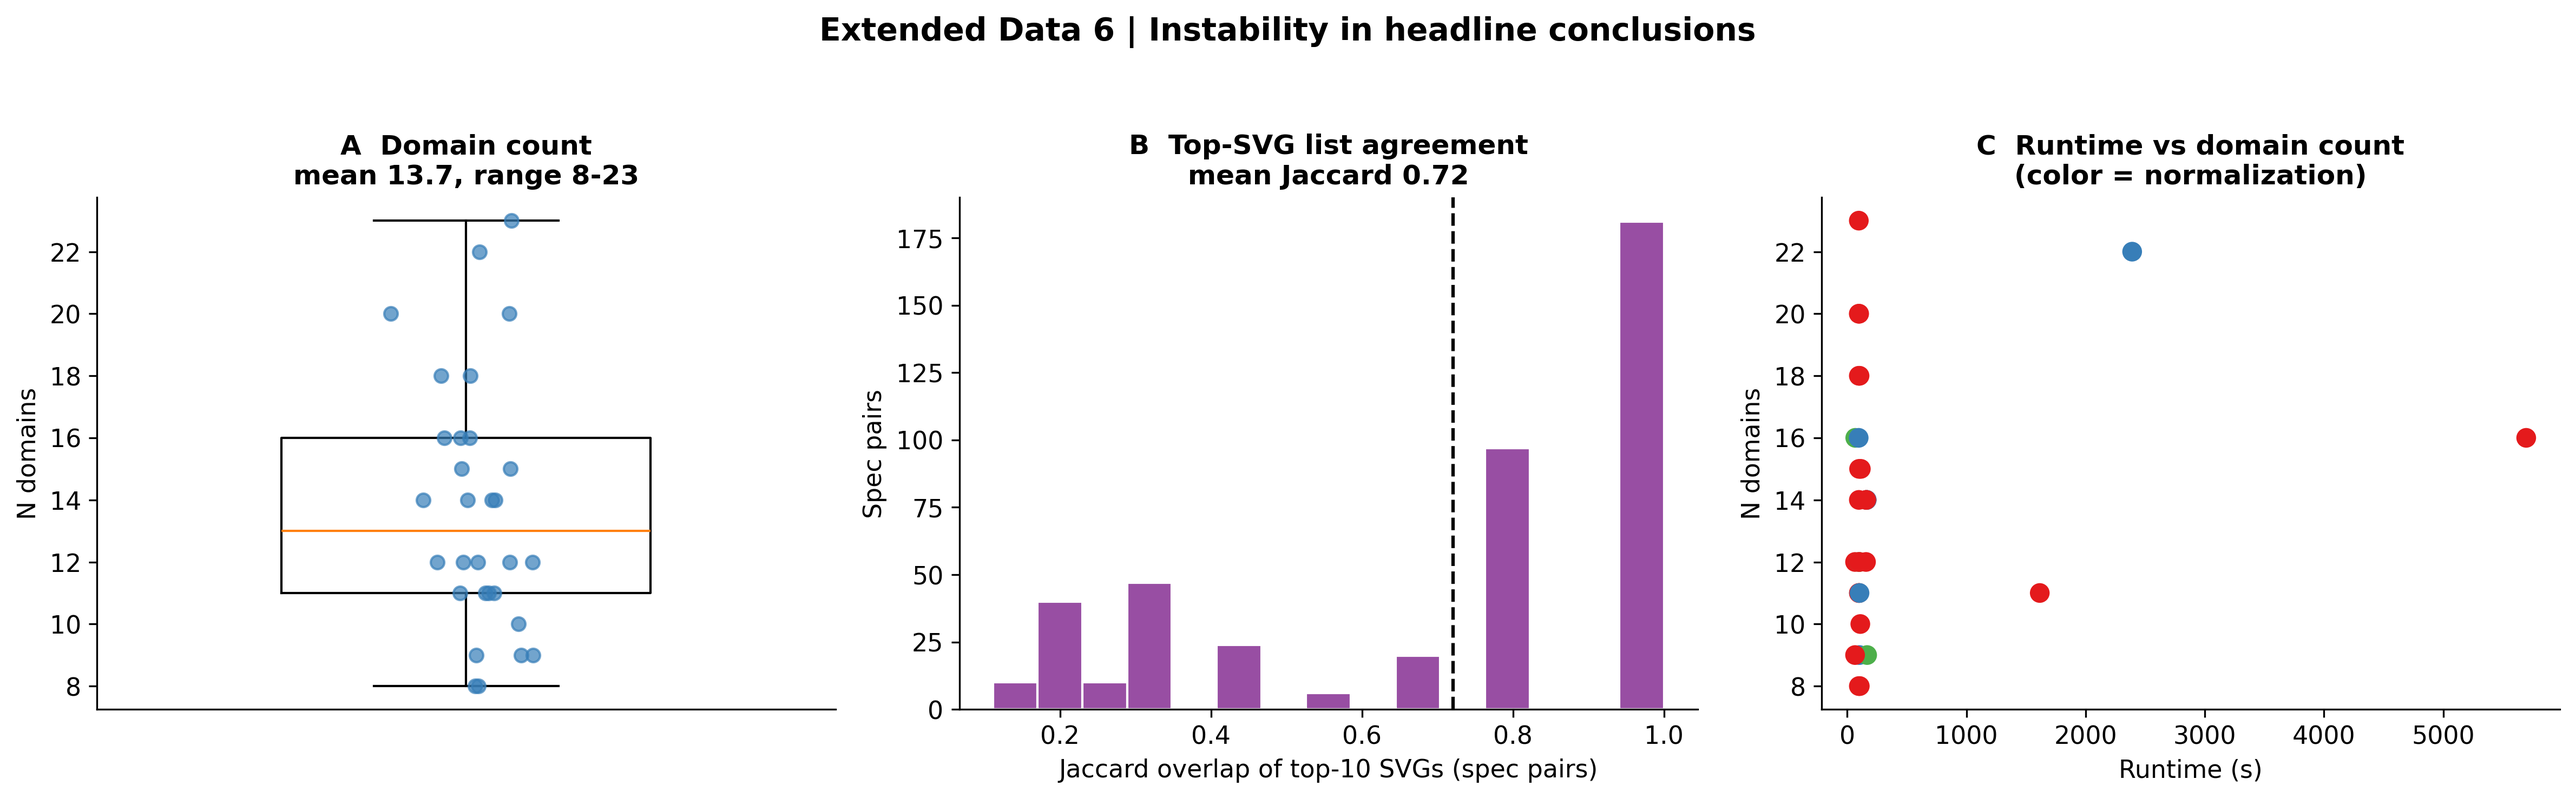
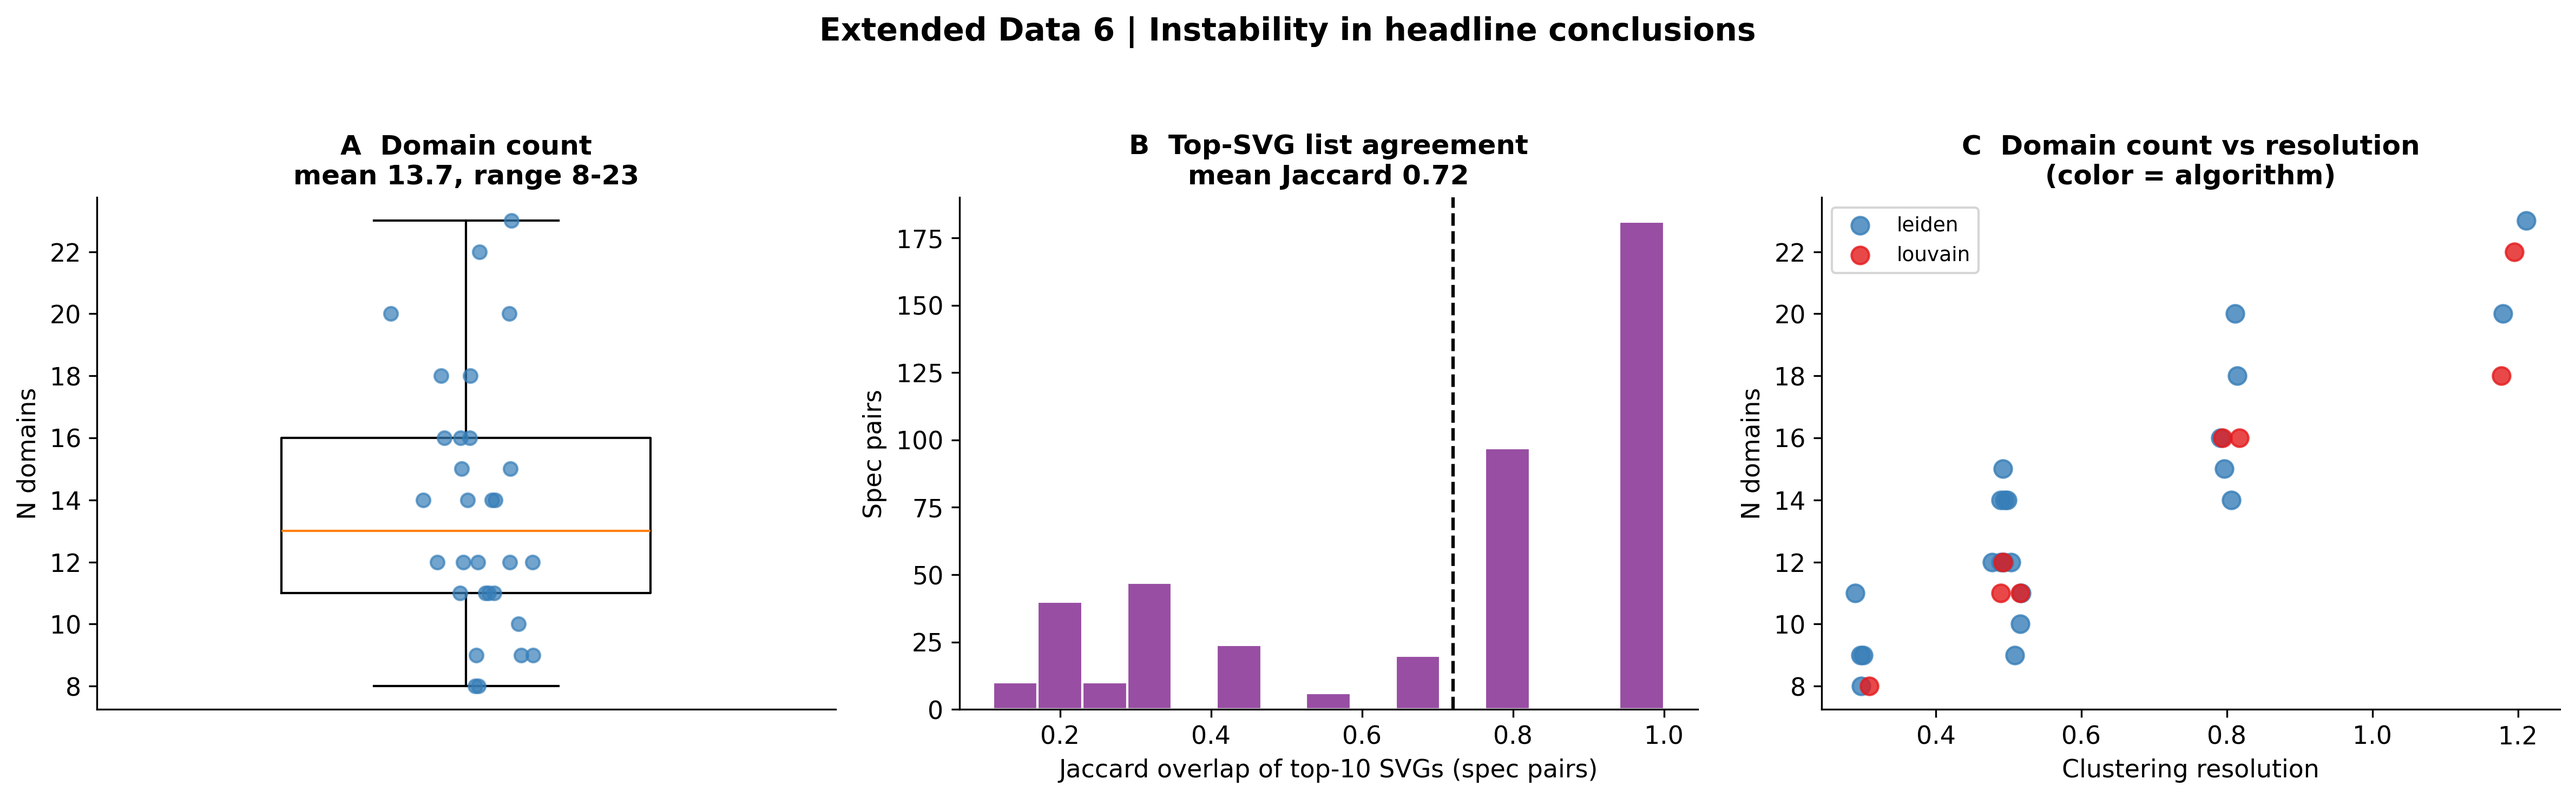
replace unreliable runtime panel with domain-count-vs-resolution in ED6
overnight machine sleep inflated recorded runtimes, making the runtime panel
misleading; show the actual dominant driver (clustering resolution) split by
algorithm instead

diff --git a/src/visualization.py b/src/visualization.py
@@ -400,8 +400,10 @@ def ed6_headline_instability(
     from itertools import combinations
 
     n_clusters = np.array([r["metadata"].get("n_clusters_found", np.nan) for r in runs], float)
-    runtimes = np.array([r["metadata"].get("runtime_seconds", np.nan) for r in runs], float)
-    norms = [r["spec"].get("normalization", "?") for r in runs]
+    resolutions = np.array(
+        [r["spec"].get("clustering", {}).get("resolution", np.nan) for r in runs], float
+    )
+    methods = [r["spec"].get("clustering", {}).get("method", "?") for r in runs]
 
     fig, axes = plt.subplots(1, 3, figsize=(16, 5))
 
@@ -425,13 +427,19 @@ def ed6_headline_instability(
     axes[1].set_ylabel("Spec pairs")
     axes[1].set_title(f"B  Top-SVG list agreement\nmean Jaccard {np.mean(jac):.2f}")
 
-    # Runtime vs mean spec-consensus agreement is not stored per spec; use mean S3
-    # of the whole map as a constant reference line and plot runtime distribution.
-    palette = {n: CLUSTER_COLORS[i] for i, n in enumerate(sorted(set(norms)))}
-    axes[2].scatter(runtimes, n_clusters, c=[palette[n] for n in norms], s=60)
-    axes[2].set_xlabel("Runtime (s)")
+    # Clustering resolution is the dominant lever on domain count; show it split by
+    # algorithm. (Runtime is not shown: overnight machine-sleep makes the recorded
+    # wall-clock unreliable as a compute measure.)
+    method_colors = {"leiden": "#377EB8", "louvain": "#E41A1C"}
+    for meth in sorted(set(methods)):
+        idx = [i for i, m in enumerate(methods) if m == meth]
+        jitter = np.random.RandomState(1).normal(0, 0.01, len(idx))
+        axes[2].scatter(resolutions[idx] + jitter, n_clusters[idx],
+                        c=method_colors.get(meth, "#666666"), s=60, alpha=0.8, label=meth)
+    axes[2].set_xlabel("Clustering resolution")
     axes[2].set_ylabel("N domains")
-    axes[2].set_title("C  Runtime vs domain count\n(color = normalization)")
+    axes[2].set_title("C  Domain count vs resolution\n(color = algorithm)")
+    axes[2].legend(fontsize=9)
 
     fig.suptitle("Extended Data 6 | Instability in headline conclusions",
                  fontsize=14, fontweight="bold")
